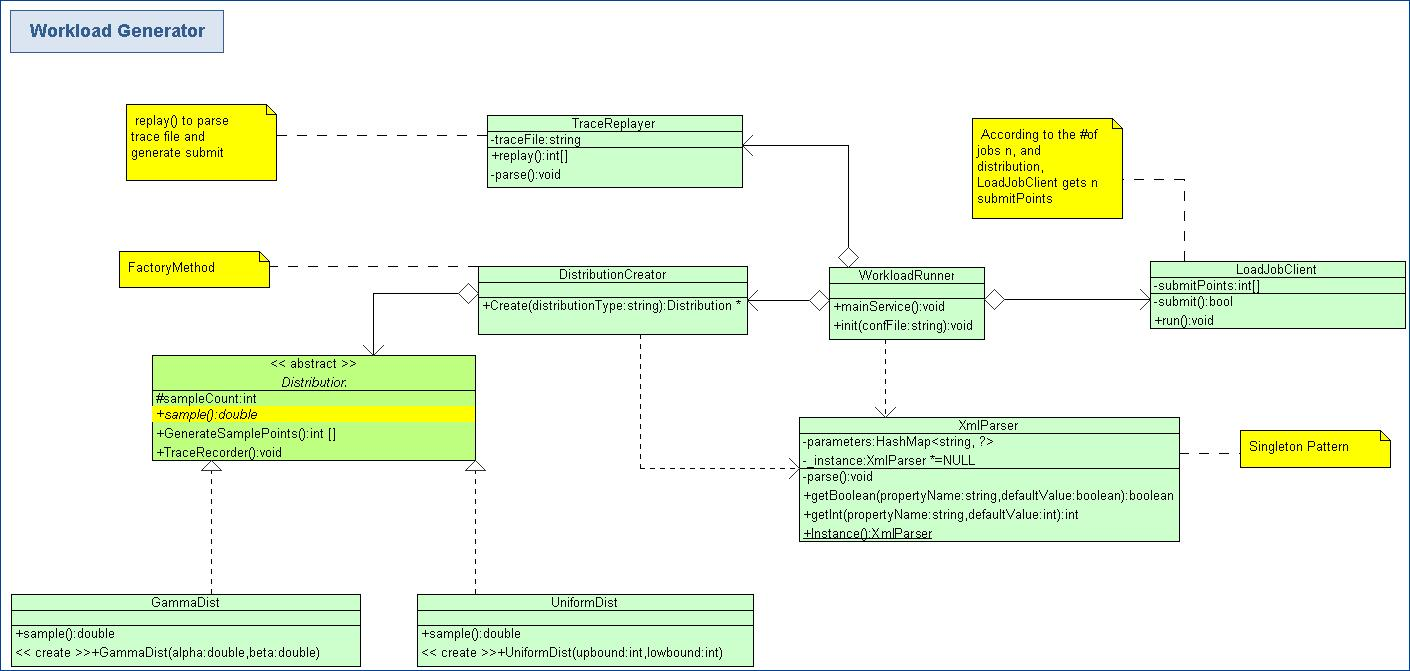
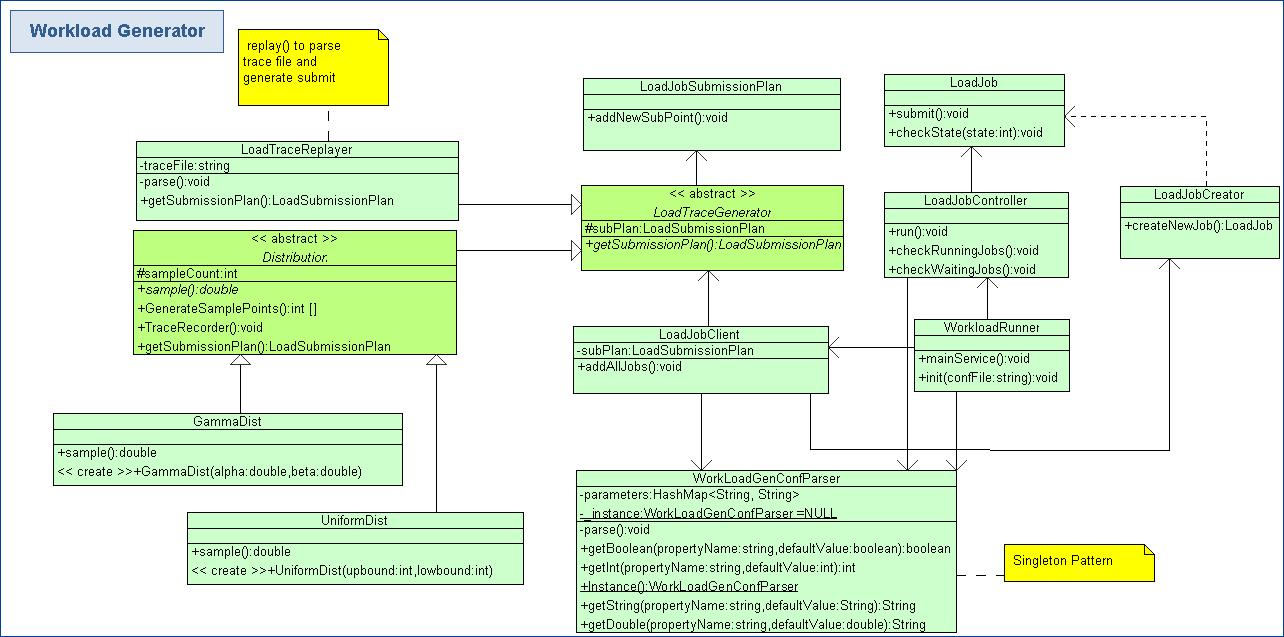
update architecture diagram & refactor jobcreator

diff --git a/src/workloadgen/loadjobs/LoadJobCreator.java b/src/workloadgen/loadjobs/LoadJobCreator.java
@@ -52,7 +52,8 @@ public class LoadJobCreator extends GenericMRLoadGenerator{
 	 * @return the JobConf object which describe the job
 	 * @throws IOException
 	 */
-	public JobConf createWebdataScan(String indir, String outdir, int numOfReducers) throws IOException {
+	public LoadJob createWebdataScan(String indir, String outdir, int numOfReducers, int timestamp)
+			throws IOException {
 		String [] argv = setupWebdataScan(indir, outdir, numOfReducers);
 		JobConf job = new JobConf();
 		job.setJobName("WebdataScan." + "small");
@@ -107,6 +108,6 @@ public class LoadJobCreator extends GenericMRLoadGenerator{
 	        writer.close();
 	      }
 	    }
-		return job;
+		return new LoadJob(job, timestamp);
 	}
 }

diff --git a/src/workloadgen/loadjobs/LoadJobClient.java b/src/workloadgen/loadjobs/LoadJobClient.java
@@ -81,12 +81,11 @@ public class LoadJobClient {
 			}
 			// create a job according to subpoint
 			try{
-				loadcontroller.addJob(new LoadJob(loadcreator.createWebdataScan(
+				loadcontroller.addJob(loadcreator.createWebdataScan(
 						WEBJOB_INPUT + SMALL_INPUT_PATH,
 						"out/webdatascan-small-out",
-						subpoint.getNumReduce()),
+						subpoint.getNumReduce(),
 						subpoint.getTimestamp()));
-
 				lasttimestamp = subpoint.getTimestamp();
 			}
 			catch (IOException e){

diff --git a/src/workloadgen/loadjobs/LoadJobController.java b/src/workloadgen/loadjobs/LoadJobController.java
@@ -155,7 +155,7 @@ public class LoadJobController implements Runnable{
 		while (this.controllerState != JobControllerState.STOPPING) {
 			while (this.controllerState == JobControllerState.SUSPENDED) {
 				try {
-					Thread.sleep(suspendDuration);
+					Thread.sleep(suspendDuration * 1000);
 					if (this.controllerState == JobControllerState.SUSPENDED){
 						this.controllerState = JobControllerState.RUNNING;
 					}

diff --git a/src/workloadgen/loadgen/dist/LoadDistCreator.java b/src/workloadgen/loadgen/dist/LoadDistCreator.java
@@ -1,0 +1,8 @@
+package workloadgen.loadgen.dist;
+
+public class LoadDistCreator {
+	public LoadDistribution createDist(){
+		LoadDistribution dist = null;
+		return dist;
+	}
+}
